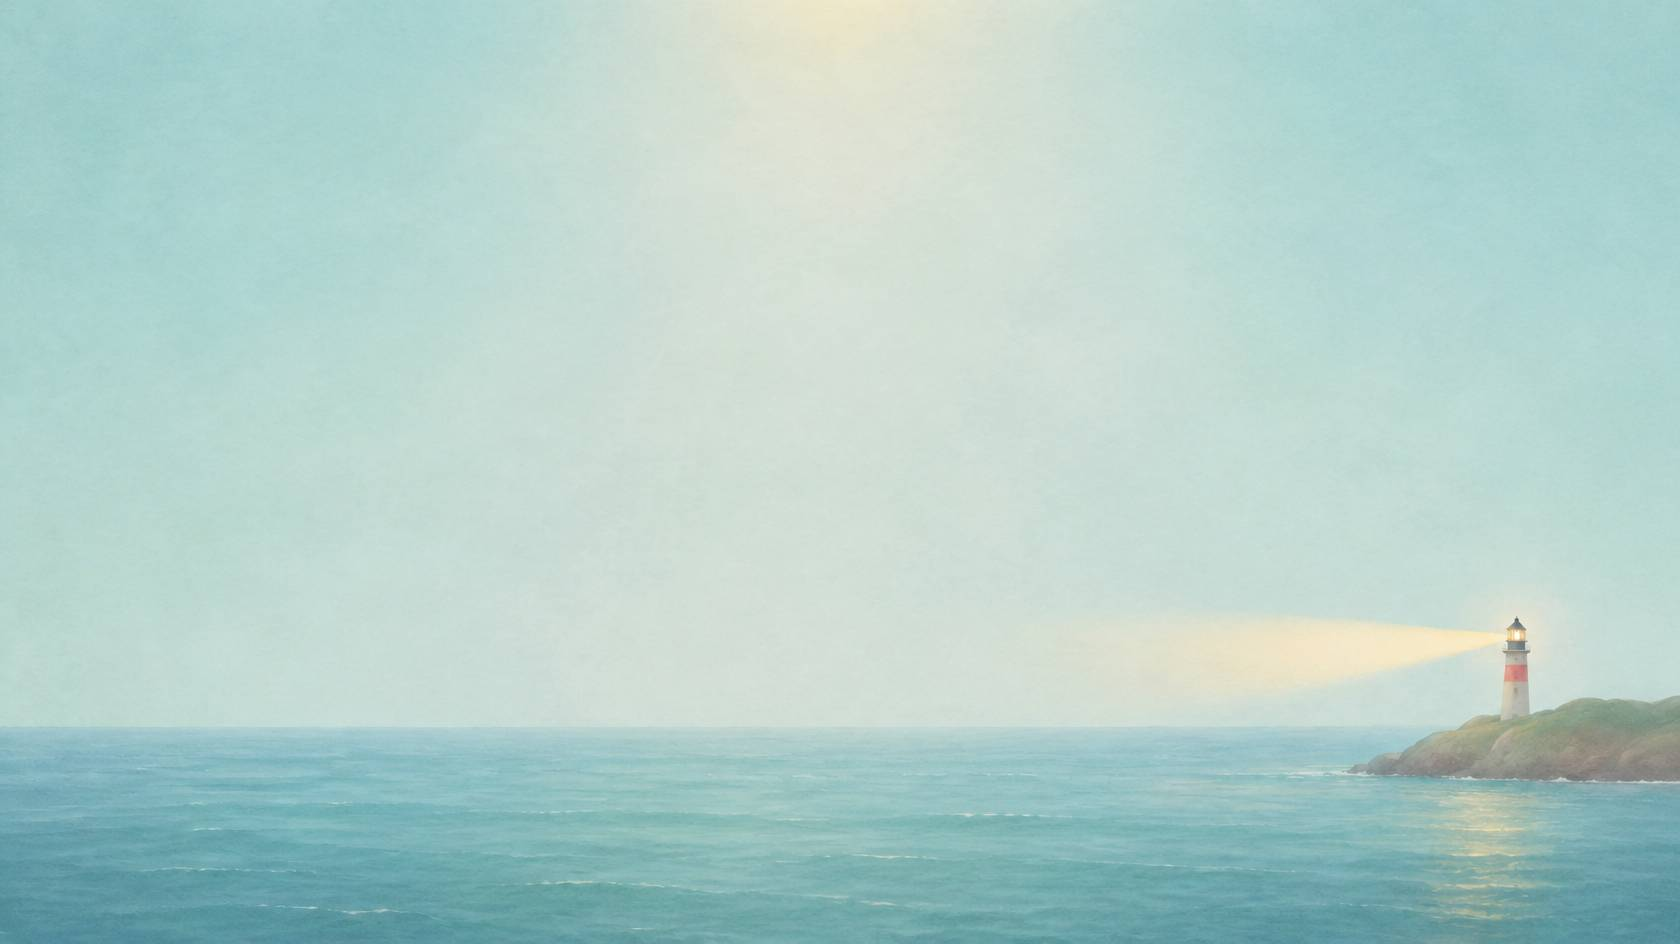
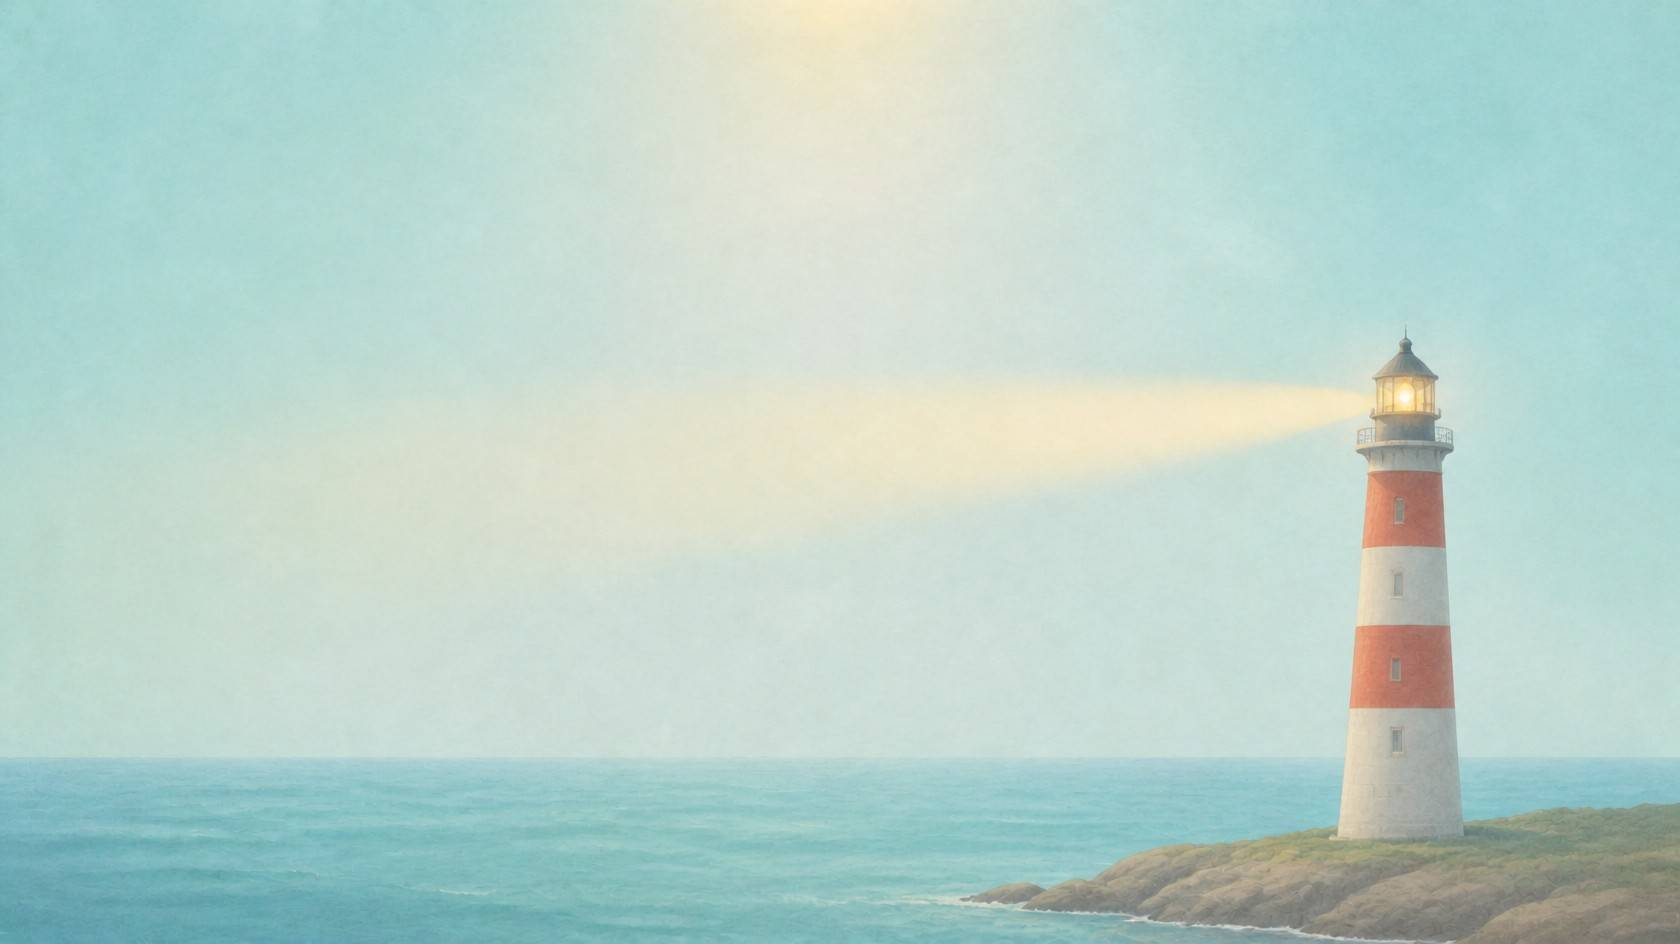
Neues Querbild: Leuchtturm groß rechts (b=2)

diff --git a/index.html b/index.html
@@ -36,10 +36,10 @@
 </head>
 <body class="lagune">
   <picture class="wasser" aria-hidden="true">
-    <source media="(orientation: landscape)" srcset="bilder/turm-quer.webp?b=1" type="image/webp">
-    <source media="(orientation: landscape)" srcset="bilder/turm-quer.jpg?b=1">
-    <source srcset="bilder/turm-hoch.webp?b=1" type="image/webp">
-    <img src="bilder/turm-hoch.jpg?b=1" alt="" width="1088" height="1444" decoding="async">
+    <source media="(orientation: landscape)" srcset="bilder/turm-quer.webp?b=2" type="image/webp">
+    <source media="(orientation: landscape)" srcset="bilder/turm-quer.jpg?b=2">
+    <source srcset="bilder/turm-hoch.webp?b=2" type="image/webp">
+    <img src="bilder/turm-hoch.jpg?b=2" alt="" width="1088" height="1444" decoding="async">
   </picture>
   <div class="licht" aria-hidden="true"></div>
   <p id="vorschau-hinweis" class="vorschau-hinweis" hidden></p>
